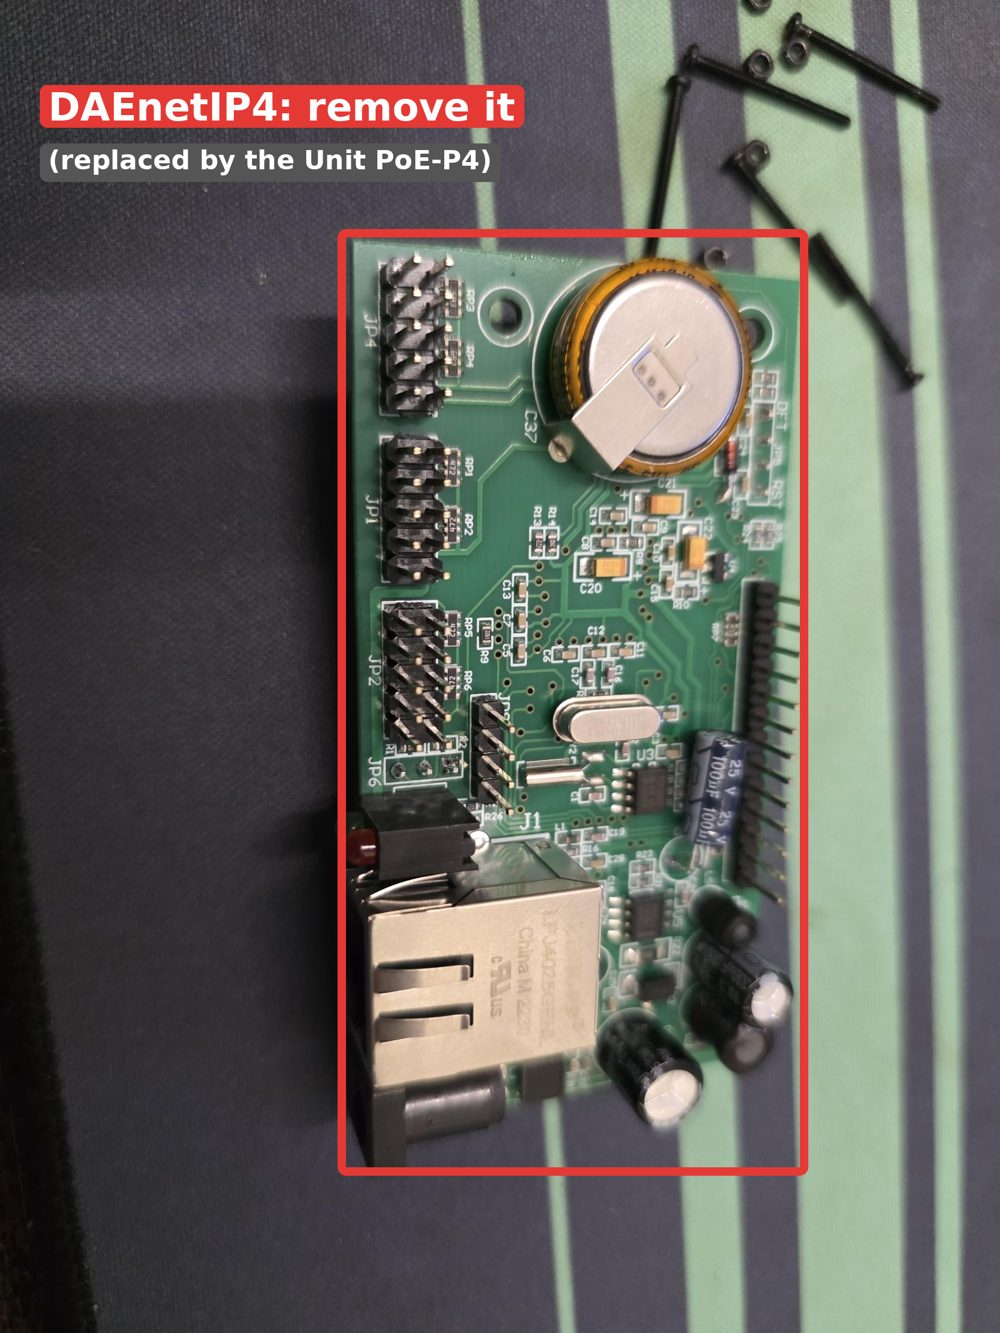
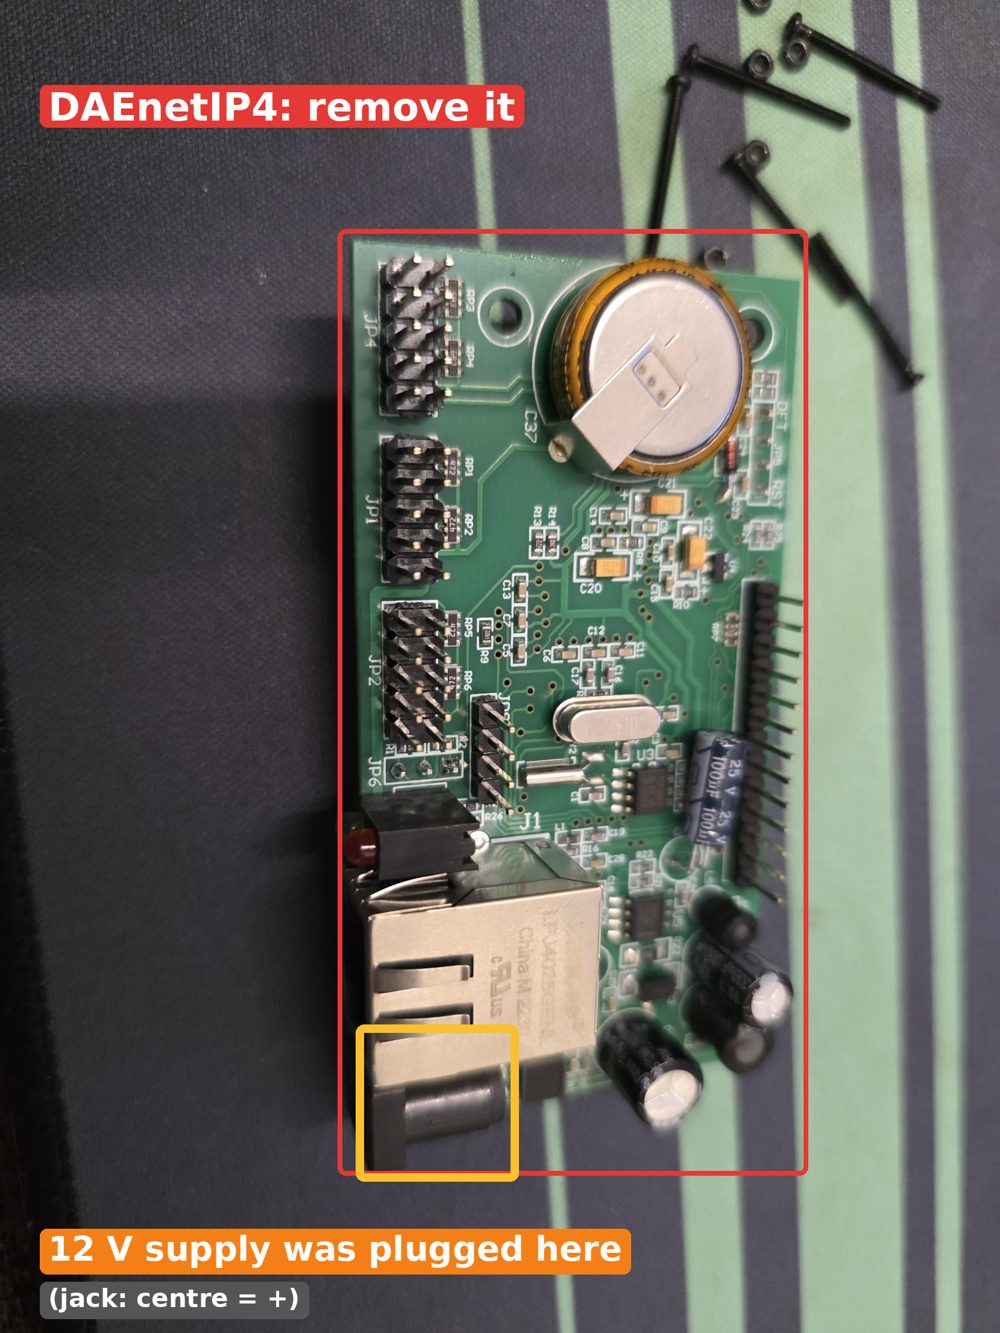
Docs: Denkovi guide - where the 12 V supply goes (JP2 pin by pin, measured: pin 1 at the bottom)
Claude-Session: https://claude.ai/code/session_01MhdcU1rLSHHs7WepvwQSj6

Changed region(s): [[0.031, 0.0923, 0.806, 0.892], [0.031, 0.9227, 0.651, 1.0]]

diff --git a/docs/denkovi.pt.md b/docs/denkovi.pt.md
@@ -16,7 +16,7 @@ Guia passo a passo para quem tem uma **placa de relés Denkovi de 12 relés** (D
 
 ![DAEnetIP4](img/denkovi-1-daenetip4-pt.jpg){ width="420" }
 
-Desaperta e retira a placa pequena (DAEnetIP4). Deixa de ser usada.
+Desaperta e retira a placa pequena (DAEnetIP4). Deixa de ser usada. A fonte de **12 V** estava ligada ao jack dela (amarelo na foto): passa a ligar diretamente à placa de relés (passo 3).
 
 ## 2. Identifica as fichas da placa de relés
 
@@ -29,23 +29,41 @@ Desaperta e retira a placa pequena (DAEnetIP4). Deixa de ser usada.
 | **JP2** (comprida, 1 fila) | JP3 | relés 9–12 (pinos 1–4) e **alimentação 12 V** (pinos 6–7 = +, 8–10 = −) |
 | As outras duas 2×5 | JP4 / JP2 | não se usam (entradas analógicas e digitais) |
 
-## 3. Esquema de ligações
+## 3. Alimentação 12 V e relés 9–12 (JP2)
+
+Sem a DAEnetIP4, a placa de relés deixa de receber os 12 V: liga a mesma fonte à **JP2**. O pino 1 fica **em baixo** (do lado do furo grande) e os 3 GND **em cima**.
+
+![JP2 pino a pino](img/denkovi-3-jp2-pt.jpg){ width="640" }
+
+| JP2 | Liga a |
+|---|---|
+| 10, 9, 8 (em cima) | GND — o **−** da fonte vai ao **8** |
+| 7, 6 | **+12 V** — o **+** da fonte vai ao **6** |
+| 5 | nada |
+| 4 | Relé 12 (bomba) → Unit PoE-P4 SDIO pino 1 |
+| 3 | Relé 11 → Hat2 pino 16 |
+| 2 | Relé 10 → Hat2 pino 14 |
+| 1 (em baixo) | Relé 9 → Hat2 pino 12 |
+
+Para ligar a fonte sem cortar o cabo usa um **adaptador de jack fêmea para bornes** (o pino interior do jack é o +) e dois fios Dupont.
+
+## 4. Esquema de ligações
 
 ![Esquema Denkovi → Unit PoE-P4](img/denkovi-p4-pt.svg)
 
 !!! warning "Os pinos 6 e 7 da JP2 têm +12 V"
     Nunca os ligues à Unit PoE-P4. Liga **só os pinos 1–4** da JP2 ao ESP. Os 12 V vão da fonte para os pinos 6 (+) e 8 (−).
 
-## 4. Passo a passo com o multímetro
+## 5. Passo a passo com o multímetro
 
 1. Tudo desligado. Multímetro em continuidade (bip), ponta preta no **GND** da placa de relés (pino "GND" da ficha AIN, à esquerda).
-2. **JP2**: os 3 pinos seguidos que apitam são o **8, 9 e 10**. Os 2 a seguir são o **7 e 6** (+12 V). O da outra ponta é o **pino 1**.
+2. **JP2**: os 3 pinos **de cima** apitam (10, 9, 8 = GND). Os 2 a seguir são o **7 e 6** (+12 V). O de baixo é o **pino 1**. Se na tua placa for ao contrário, inverte a numeração.
 3. **JP1**: o pino que apita é o **9**; o **10** está ao lado; o **1** está na outra ponta, na mesma coluna do 9 (pela marca "2" impressa, 1 e 2 ficam em baixo).
 4. Liga a fonte de 12 V: **+ → JP2 pino 6**, **− → JP2 pino 8**. Nenhum relé deve ligar.
 5. Mede **JP1 pino 1** contra o GND: tem de dar **0 V**.
 6. Só então liga os fios dos relés e o GND à Unit PoE-P4, como no esquema. A Unit PoE-P4 é alimentada pelo PoE, separada dos 12 V; o único fio em comum é o GND.
 
-## 5. Assistente da placa
+## 6. Assistente da placa
 
 Na página da placa (http://IP-da-placa/) → **Definições**:
 

diff --git a/docs/denkovi.md b/docs/denkovi.md
@@ -16,7 +16,7 @@ Step-by-step guide for a **Denkovi 12-relay board** (DAE-PB/Ro12/Di8/Ai8) driven
 
 ![DAEnetIP4](img/denkovi-1-daenetip4-en.jpg){ width="420" }
 
-Unscrew and remove the small board (DAEnetIP4). It is no longer used.
+Unscrew and remove the small board (DAEnetIP4). It is no longer used. The **12 V** supply was plugged into its jack (yellow in the photo): it now goes straight to the relay board (step 3).
 
 ## 2. Find the relay board sockets
 
@@ -29,23 +29,41 @@ Unscrew and remove the small board (DAEnetIP4). It is no longer used.
 | **JP2** (long, single row) | JP3 | relays 9–12 (pins 1–4) and **12 V supply** (pins 6–7 = +, 8–10 = −) |
 | The other two 2×5 | JP4 / JP2 | not used (analog and digital inputs) |
 
-## 3. Wiring diagram
+## 3. 12 V supply and relays 9–12 (JP2)
+
+Without the DAEnetIP4 the relay board no longer gets 12 V: connect the same supply to **JP2**. Pin 1 is **at the bottom** (next to the big hole) and the 3 GND pins **at the top**.
+
+![JP2 pin by pin](img/denkovi-3-jp2-en.jpg){ width="640" }
+
+| JP2 | Connect to |
+|---|---|
+| 10, 9, 8 (top) | GND — the supply **−** goes to **8** |
+| 7, 6 | **+12 V** — the supply **+** goes to **6** |
+| 5 | nothing |
+| 4 | Relay 12 (pump) → Unit PoE-P4 SDIO pin 1 |
+| 3 | Relay 11 → Hat2 pin 16 |
+| 2 | Relay 10 → Hat2 pin 14 |
+| 1 (bottom) | Relay 9 → Hat2 pin 12 |
+
+To connect the supply without cutting its cable use a **female DC jack to screw terminal adapter** (the jack centre pin is +) and two Dupont wires.
+
+## 4. Wiring diagram
 
 ![Denkovi → Unit PoE-P4 wiring](img/denkovi-p4-en.svg)
 
 !!! warning "JP2 pins 6 and 7 carry +12 V"
     Never connect them to the Unit PoE-P4. Connect **only pins 1–4** of JP2 to the ESP. The 12 V go from the supply to pins 6 (+) and 8 (−).
 
-## 4. Step by step with a multimeter
+## 5. Step by step with a multimeter
 
 1. Everything off. Multimeter on continuity (beep), black probe on the relay board **GND** ("GND" pin of the AIN header, on the left).
-2. **JP2**: the 3 pins in a row that beep are **8, 9 and 10**. The next 2 are **7 and 6** (+12 V). The one at the other end is **pin 1**.
+2. **JP2**: the **top** 3 pins beep (10, 9, 8 = GND). The next 2 are **7 and 6** (+12 V). The bottom one is **pin 1**. If your board is the other way round, reverse the numbering.
 3. **JP1**: the pin that beeps is **9**; **10** is next to it; **1** is at the other end, in the same column as 9 (by the printed "2", 1 and 2 are at the bottom).
 4. Connect the 12 V supply: **+ → JP2 pin 6**, **− → JP2 pin 8**. No relay should switch on.
 5. Measure **JP1 pin 1** to GND: it must read **0 V**.
 6. Only then connect the relay wires and GND to the Unit PoE-P4, as in the diagram. The Unit PoE-P4 is powered by PoE, separate from the 12 V; the only shared wire is GND.
 
-## 5. Setup wizard
+## 6. Setup wizard
 
 On the device page (http://device-ip/) → **Settings**:
 
